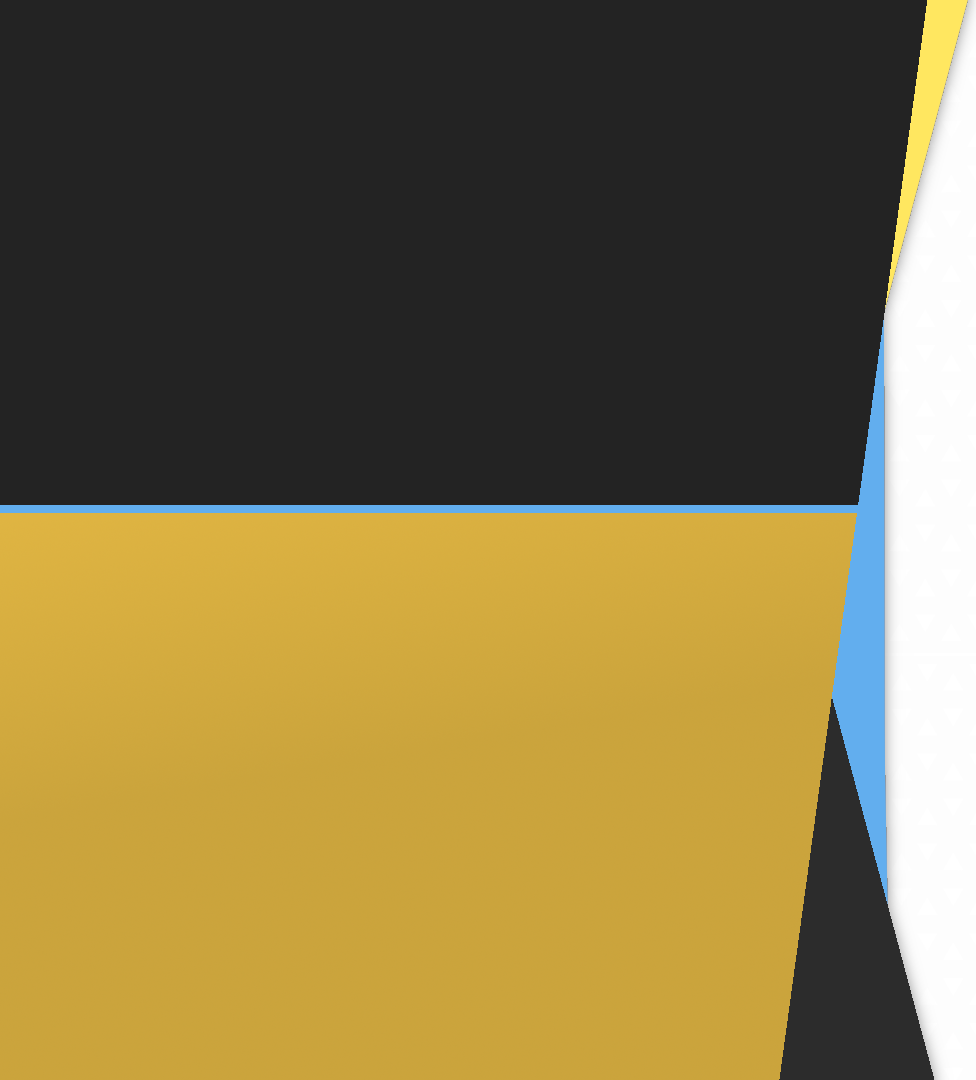
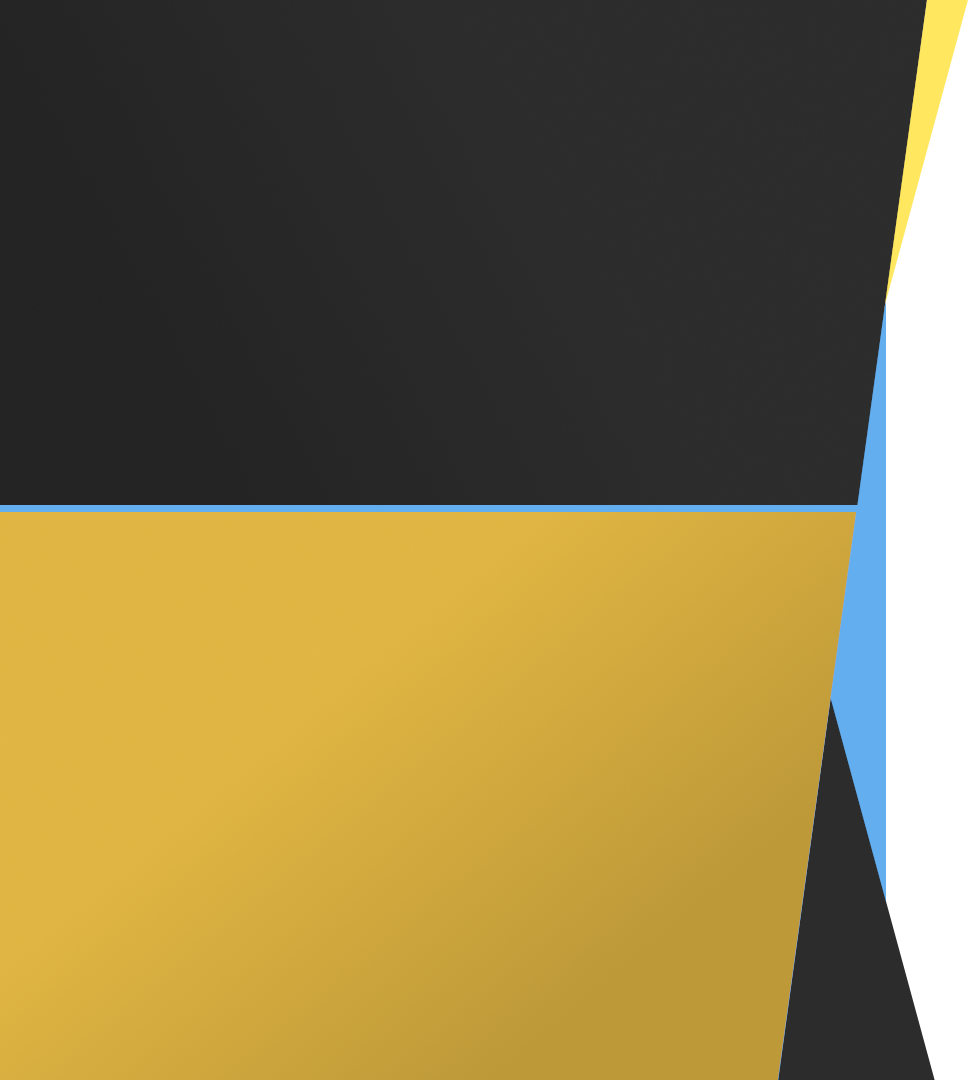
Visual refinements
Updated left panel image to be sharper, have a gradient on top, and have a better gradient on the bottom
Updated the login and register tabs to work with the new top gradient
Made various minor refinements to allow the UI to better function at different aspect ratios and resolutions

diff --git a/html/styles.css b/html/styles.css
@@ -28,7 +28,7 @@ button:hover {
 /* Right Panel */
 .rightpanel {
     padding-top: 50px;
-    padding-right: 150px;
+    padding-right: 8%;
     padding-bottom: 1.2%;
     float: right;
     height: 93%;
@@ -67,6 +67,7 @@ button:hover {
     clear: right;
     background-color: #46cd38;
     background-image: url("img/plusicon.png");
+    z-index: 0;
 }
 .add:hover {
     background-color: #3db431;
@@ -80,6 +81,7 @@ button:hover {
     margin-right: 6px;
     background-color: #f591ef;
     background-image: url("img/favoriteiconwhite.png");
+    z-index: 0;
 }
 .favorites:hover {
     background-color: #dc82d6;
@@ -310,7 +312,7 @@ button:hover {
     top: 38.7%;
     font-size: 32px;
     color: whitesmoke;
-    background-color: #232323;
+    background-color: #23232300;
     outline: none;
     border-width: 0 0 5px 0;
     border-style: solid;
@@ -318,7 +320,7 @@ button:hover {
     transition-duration: 200ms;
 }
 .login button:hover {
-    background-color: #292929;
+    background-color: #292929ff;
 }
 
 .login button.register {
@@ -648,6 +650,7 @@ h3 input {
 
 .contactdetails h3 {
     position: absolute;
+    width: 88%;
     top: 47.5%;
     letter-spacing: 20px;
     margin-top: 2%;
@@ -655,10 +658,9 @@ h3 input {
 }
 
 .contactdetails h3 img {
-    margin-left: 20px;
-    margin-right: 5px;
-    width: 40px;
-    height: 40px;
+    margin-left: 3%;
+    margin-right: 0%;
+    width: 6%;
     vertical-align: -10px; 
 }
 
